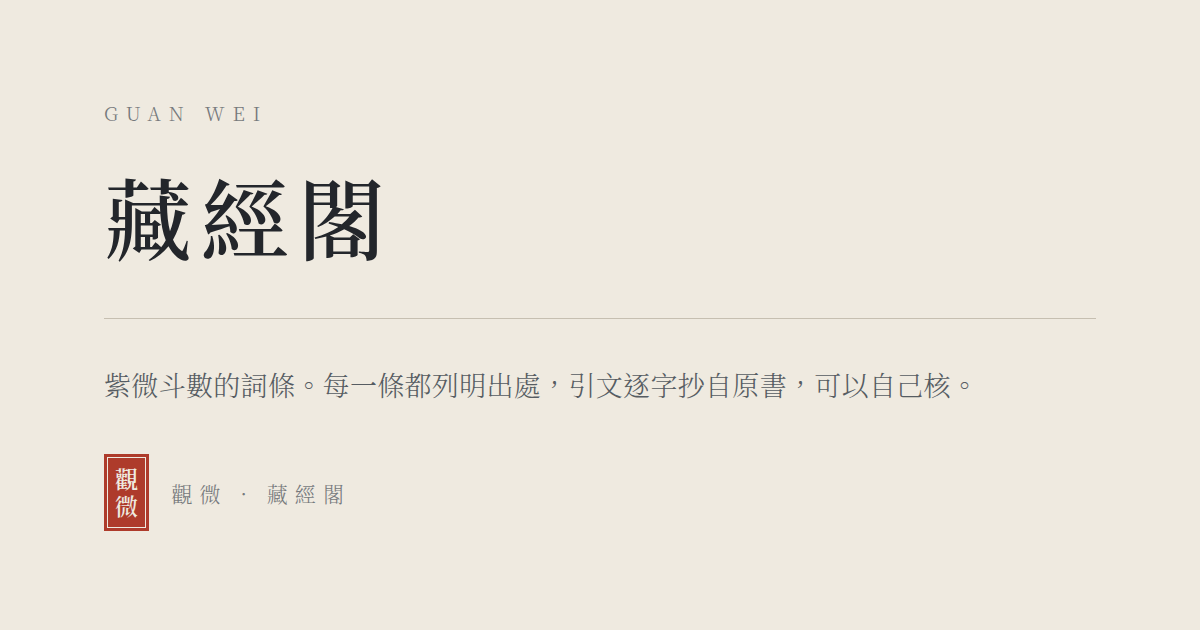
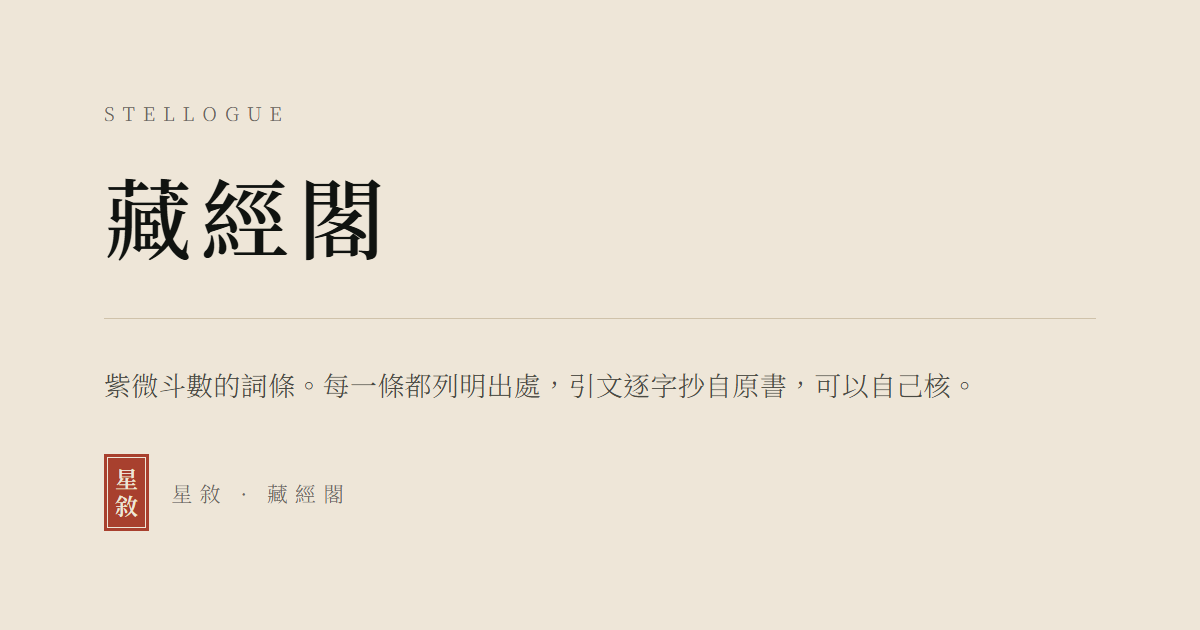
視覺識別：墨綠燙金品牌色、星軌標誌、分頁圖示、新分享預覽圖、墨綠封面同書脊

diff --git a/apps/web/src/app/globals.css b/apps/web/src/app/globals.css
@@ -64,6 +64,15 @@
   --cinnabar: #a8402e;
   --cinnabar-wash: rgb(168 64 46 / 0.09);
 
+  /* ── 墨綠同燙金：星敘嘅品牌色（2026-10-04，參考實體書效果圖）──
+     封面、書脊、重點頁（流年等）用墨綠底；燙金係墨綠上面嘅字同線。
+     品牌色唔跟日夜讀轉 —— 一本書嘅封面唔會因為熄咗燈就變色。 */
+  --jade: #16251f;
+  --jade-2: #1f332a;
+  --jade-rule: rgb(201 173 116 / 0.28);
+  --gilt: #c9ad74;
+  --gilt-2: rgb(201 173 116 / 0.72);
+
   /* ── 夜：首頁同入口嗰幅夜景。唔跟日夜讀轉 —— 張相本身就係夜晚 ── */
   --night: #0b0d0b;
   --night-ink: #eee6d8;
@@ -196,6 +205,11 @@
   --color-gold-ink: var(--gold-ink);
   --color-gold-wash: var(--gold-wash);
   --color-wood: var(--wood);
+  --color-jade: var(--jade);
+  --color-jade-2: var(--jade-2);
+  --color-jade-rule: var(--jade-rule);
+  --color-gilt: var(--gilt);
+  --color-gilt-2: var(--gilt-2);
   --color-night: var(--night);
   --color-night-ink: var(--night-ink);
   --color-night-ink-2: var(--night-ink-2);
@@ -1063,9 +1077,11 @@
   padding: 16px 0 10px;
   border: 1px solid var(--rule);
   /* 3px 書口喺左邊 */
-  border-inline-start: 3px solid var(--rule-2);
-  background: var(--paper-2);
-  color: var(--ink-2);
+  /* 2026-10-04：墨綠書脊、燙金字 —— 一排排似效果圖嘅書盒 */
+  border-color: var(--jade-2);
+  border-inline-start: 3px solid var(--jade-rule);
+  background: var(--jade);
+  color: var(--gilt-2);
   font-family: var(--font-serif-stack);
   font-size: 14.5px;
   line-height: 1.05;
@@ -1083,20 +1099,21 @@
 
 .ji:hover {
   transform: translateY(-10px);
-  border-color: var(--ink-3);
-  color: var(--ink);
+  border-color: var(--gilt-2);
+  color: var(--gilt);
 }
 
 /* 在讀嗰本。朱砂喺呢度嘅意思係「你停咗喺呢度」。 */
 .ji[data-reading="1"] {
   border-inline-start-color: var(--cinnabar);
-  color: var(--cinnabar);
+  color: var(--gilt);
 }
 
 /* 待時辰、＋ 新書：虛線。 */
 .ji[data-kind="awaiting"],
 .ji[data-kind="new"] {
   border-style: dashed;
+  border-color: var(--rule);
   background: none;
   color: var(--ink-3);
 }
@@ -2165,12 +2182,19 @@
   overflow: hidden;
 }
 
-/* 正面：封面。硬皮、一條書脊布邊 */
+/* 正面：封面。硬皮、一條書脊布邊。
+   2026-10-04：墨綠封面、燙金字（參考實體書效果圖）。喺封面範圍入面將墨色換做燙金，
+   入面用 text-ink-* 嘅字自動跟住變，唔使逐個改。 */
 .fan-mian {
+  --ink: var(--gilt);
+  --ink-2: var(--gilt-2);
+  --ink-3: var(--gilt-2);
+  --rule: var(--jade-rule);
+  color: var(--gilt);
   border-radius: 0 3px 3px 0;
   background:
-    linear-gradient(to right, var(--paper-3) 0 9px, rgb(0 0 0 / 0.08) 9px 10px, transparent 10px),
-    var(--paper-2);
+    linear-gradient(to right, rgb(0 0 0 / 0.28) 0 9px, rgb(201 173 116 / 0.18) 9px 10px, transparent 10px),
+    var(--jade);
   border: 1px solid rgb(0 0 0 / 0.16);
   box-shadow:
     0 1px 0 rgb(0 0 0 / 0.2),

diff --git a/apps/web/src/components/BrandMark.tsx b/apps/web/src/components/BrandMark.tsx
@@ -1,0 +1,37 @@
+/**
+ * 星敘標誌（2026-10-04）：圓形星軌 ＋ 一條書脊。
+ *
+ * 外圈係天，斜嘅一圈係星軌，中間企住嗰條係一本書嘅書脊 —— 「以星為序，以你為章」。
+ * 細線、`currentColor`：喺夜景上面跟住頁頂變燙金，喺紙上面變墨色。
+ * 細過 24px（分頁圖示）就用 `small`：拎走星軌同細星，淨低圓、書脊、一粒星，唔會糊埋一舊。
+ *
+ * ⚠ 呢個係過渡版本。正式標誌由設計師畫好之後，換走呢個檔入面嘅 path 就得，
+ *    用到佢嘅地方唔使改。
+ */
+export function BrandMark({ size = 32, small = false, className }: { size?: number; small?: boolean; className?: string }) {
+  return (
+    <svg
+      aria-hidden="true"
+      viewBox="0 0 100 100"
+      width={size}
+      height={size}
+      fill="none"
+      stroke="currentColor"
+      strokeLinecap="round"
+      strokeLinejoin="round"
+      className={className}
+    >
+      <circle cx="50" cy="50" r="44" strokeWidth={small ? 6 : 2.2} />
+      {small ? null : <ellipse cx="50" cy="50" rx="43" ry="15" strokeWidth="1.3" transform="rotate(-24 50 50)" />}
+      {/* 書脊：尖頂、直身 */}
+      <path d="M50 20 L57 33 L57 76 L43 76 L43 33 Z" strokeWidth={small ? 6 : 2.2} />
+      <circle cx="78" cy="36" r={small ? 7 : 3} fill="currentColor" stroke="none" />
+      {small ? null : (
+        <>
+          <circle cx="23" cy="64" r="2" fill="currentColor" stroke="none" />
+          <circle cx="66" cy="83" r="1.5" fill="currentColor" stroke="none" />
+        </>
+      )}
+    </svg>
+  );
+}

diff --git a/apps/web/src/components/SiteHeader.tsx b/apps/web/src/components/SiteHeader.tsx
@@ -6,6 +6,7 @@ import { Link, usePathname } from '@/i18n/navigation';
 import { ThemeToggle } from '@/components/ThemeToggle';
 import { LocaleSwitch } from '@/components/LocaleSwitch';
 import { MARK, LATIN } from '@/lib/site';
+import { BrandMark } from '@/components/BrandMark';
 import { useQuiet, useQuietBack } from '@/lib/quiet';
 
 /**
@@ -80,9 +81,13 @@ export function SiteHeader() {
         data-back={back ? '' : undefined}
       >
         <div className="dao-nei">
-          <Link href="/" className="flex flex-col leading-none" aria-label={t('homeAria')}>
-            <span className="font-serif text-[1.375rem] font-medium md:text-[1.625rem] tracking-[0.32em]">{MARK}</span>
-            <span className="mt-1.5 font-latin text-[0.625rem] tracking-[0.5em] opacity-80">{LATIN}</span>
+          <Link href="/" className="flex items-center gap-3 leading-none" aria-label={t('homeAria')}>
+            {/* 星敘標誌（2026-10-04）：夜景上面燙金，紙上面跟墨色 */}
+            <BrandMark size={34} className={overNight ? 'text-gilt' : 'text-gold-ink'} />
+            <span className="flex flex-col">
+              <span className="font-serif text-[1.375rem] font-medium md:text-[1.625rem] tracking-[0.32em]">{MARK}</span>
+              <span className="mt-1.5 font-latin text-[0.625rem] tracking-[0.5em] opacity-80">{LATIN}</span>
+            </span>
           </Link>
 
           <nav aria-label={t('main')} className="hidden items-center gap-12 md:flex">

diff --git a/apps/web/src/components/Naming.tsx b/apps/web/src/components/Naming.tsx
@@ -9,6 +9,7 @@ import { BookSpread, type Box } from "@/components/BookSpread";
 import { Seal } from "@/components/Seal";
 import { INK_MS, NAMING_MS, SEAL_DELAY_MS } from "@/lib/timing";
 import { MARK, LATIN } from "@/lib/site";
+import { BrandMark } from "@/components/BrandMark";
 import { LIFE_PALACE } from "@/lib/suidu";
 import { bookTitle } from "@/lib/chengshu";
 import { setQuiet } from "@/lib/quiet";
@@ -172,7 +173,8 @@ export function Naming({
         label={t("book", { name })}
         cover={
           <div className="flex h-full flex-col justify-between p-7 ps-10">
-            <span className="font-latin text-cap uppercase tracking-[0.42em] text-ink-3">
+            <span className="flex items-center gap-3 font-latin text-cap uppercase tracking-[0.42em] text-ink-3">
+              <BrandMark size={28} />
               {LATIN}
             </span>
             <div>
